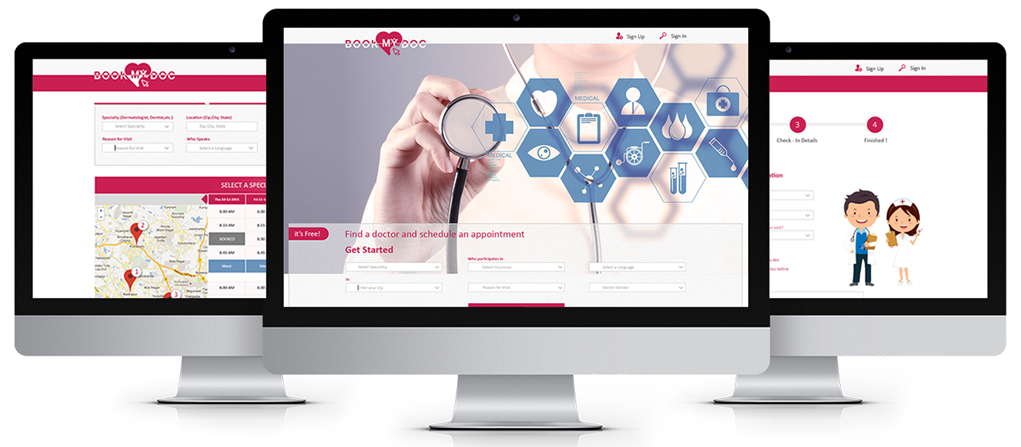
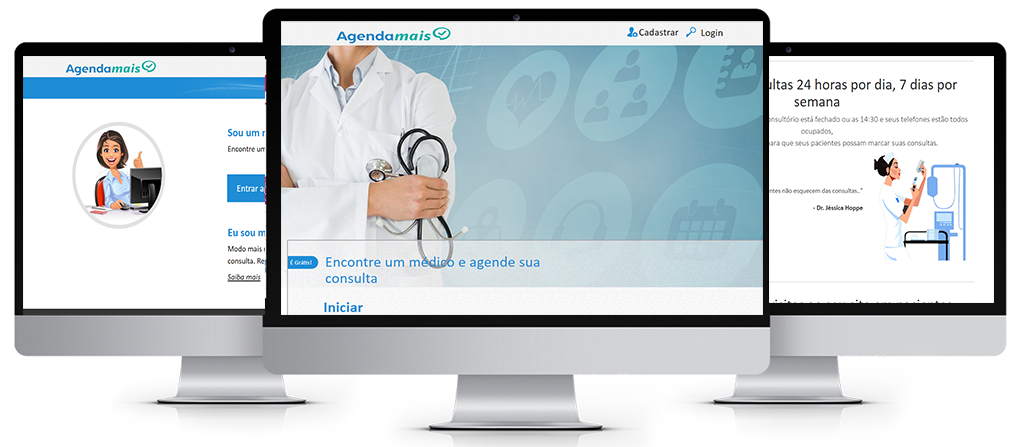
alterações no cadastro de medicos e no saiba mais

diff --git a/service/public/css/css/bookmydoc-changed.css b/service/public/css/css/bookmydoc-changed.css
@@ -332,7 +332,7 @@ ul.welcomes{list-style-type: none;overflow:auto;margin:30px auto;width:100%;disp
 
 ul.works{list-style-type: none;overflow:auto;margin:30px auto;text-align:center;width:64%;}
 ul.works li{float:left;padding: 17px;display: inline;color: #1f8dd6;font-size: 19px;font-family:'calibri';}
-.large-butt{background-color:#1f8dd6;color: white;font-family:'calibri';font-size: 17px;text-align: center;width: 30%;padding: 5px;cursor: pointer;float: right;margin-top:-74px;}
+.large-butt{background-color:#c81e51;color: white;font-family:'calibri';font-size: 17px;text-align: center;width: 30%;padding: 5px;cursor: pointer;float: right;margin-top:-74px;}
 .more-pat h1 {text-align: center;margin-top: 40px;font-family:'calibri';font-size: 45px;}
 .more-pat p{text-align: center;font-size: 24px;font-family:'calibri';font-weight: 300;}
 .all img {background-image:url(../images/all.png);background-repeat: no-repeat;background-position: 50% 50%;  vertical-align: middle;

diff --git a/service/ui/app/join-doctor.php b/service/ui/app/join-doctor.php
@@ -14,27 +14,27 @@ include("service/ui/common/header.php");
       <div class="col-md-12 col-sm-12 col-xs-12">
          <div class="col-md-6 col-sm-6 col-xs-6">
             <div class="signup_nw">
-               <h1> You’ll love being on Bookmydoc </h1>
+               <h1> Você vai adorar estar no AgendaMais </h1>
                <ul>
                   <li>
-                     <h2> You’ll love being on Bookmydoc </h2>
-                     Access Bookmydoc network of more than 5 million patients. 
+                     <h2> Você vai adorar estar no AgendaMais  </h2>
+                     Mais de 100 milhões de brasileiros acessam a internet 
                   </li>
                   <li>
-                     <h2> You’ll love being on Bookmydoc </h2>
-                     Let patients schedule appointments with you instantly, 24-7, from Bookmydoc and from your practice website.
+                     <h2> Você vai adorar estar no AgendaMais </h2>
+                     Deixe seus pacientes agendar consultas com você instantaneamente.
                   </li>
                   <li>
-                     <h2> You’ll love being on Bookmydoc </h2>
-                     Access Bookmydoc network of more than 5 million patients. 
+                     <h2> Você vai adorar estar no AgendaMais  </h2>
+                     Por mais algum motivo
                   </li>
                   <li>
-                     <h2> You’ll love being on Bookmydoc  </h2>
-                     Access Bookmydoc network of more than 5 million patients. 
+                     <h2> Você vai adorar estar no AgendaMais  </h2>
+                     Deve ter mais algum ainda 
                   </li>
                   <li>
-                     <h2> You’ll love being on Bookmydoc  </h2>
-                     Let patients schedule appointments with you instantly, 24-7, from Book My Doc.com and from your practice website.
+                     <h2> Você vai adorar estar no AgendaMais   </h2>
+                     E por algum outro ainda
                   </li>
                </ul>
             </div>

diff --git a/service/ui/app/whyjoin.php b/service/ui/app/whyjoin.php
@@ -5,12 +5,12 @@
                <div class="col-md-6"></div>
                <div class="col-md-6 col-sm-6 col-xs-12">
                    <ul class="works">
-                       <li>Why Join</li>
+                     <!-- <li>Por que se juntar</li> -->
                      
-                       <li>How It Works</li>
+                       <li> </li> 
                    </ul>
                      <div class="why-join"></div>
-                <div class="large-butt"><a style="color:#fff;" href="<?php echo WEB_ROOT;?>index.php/join/doctor">Join Now</a></div>
+                <div class="large-butt"><a style="color:#fff;" href="<?php echo WEB_ROOT;?>index.php/join/doctor">Junte-se a nós</a></div>
                </div>
             </div> 
             <div class="row">
@@ -100,7 +100,7 @@
             
             </div>
 
-<!-- <section  class="team-modern-12">
+<!--<section  class="team-modern-12">
    <div class="container">
       <div class="whyjoin_main">
          <div class="whyjon_nav">
@@ -158,6 +158,6 @@
          </div>
       </div>
    </div>
-</section> -->
+</section>  -->
 <?php include("service/ui/common/footer.php"); ?>
 
